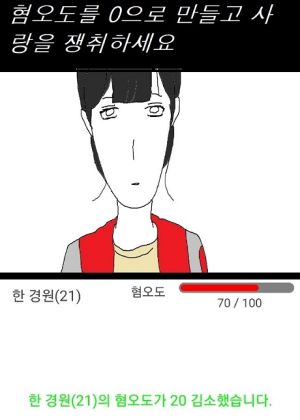
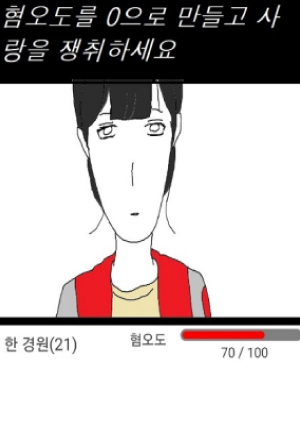
0602

Changed region(s): [[0.0, 0.0, 1.0, 0.8048], [0.09, 0.9286, 0.9, 0.9905], [0.42, 0.3405, 0.45, 0.4333]]

diff --git a/99_test/애플리케이션배포_위재형/app/93_game5.html b/99_test/애플리케이션배포_위재형/app/93_game5.html
@@ -56,8 +56,8 @@
 
 <body>
     <div id="wrap">
-        <img src="images/5.jpg" alt="img">
         <h1>모바일연애시뮬레이션</h1>
+        <img src="images/5.jpg" alt="img">
         <button id="againBtn">나한테 해준게 뭔데!!</button>
         <button id="nextBtn">아 엄마 나가!!</button>
     </div>

diff --git a/99_test/애플리케이션배포_위재형/app/93_game2.html b/99_test/애플리케이션배포_위재형/app/93_game2.html
@@ -56,8 +56,8 @@
 
 <body>
     <div id="wrap">
-        <img src="images/2.jpg" alt="img">
         <h1>모바일연애시뮬레이션</h1>
+        <img src="images/2.jpg" alt="img">
         <button id="againBtn">너 원피스봐?</button>
         <button id="nextBtn">너 던파해?</button>
     </div>

diff --git a/99_test/애플리케이션배포_위재형/app/93_game3.html b/99_test/애플리케이션배포_위재형/app/93_game3.html
@@ -53,8 +53,8 @@
 
 <body>
     <div id="wrap">
-        <img src="images/3.jpg" alt="img">
         <h1>모바일연애시뮬레이션</h1>
+        <img src="images/3.jpg" alt="img">
         <button id="againBtn">잘 지냈어?</button>
         <button id="nextBtn">안녕! 헤헤</button>
     </div>

diff --git a/99_test/애플리케이션배포_위재형/app/93_game4.html b/99_test/애플리케이션배포_위재형/app/93_game4.html
@@ -56,8 +56,8 @@
 
 <body>
     <div id="wrap">
-        <img src="images/4.jpg" alt="img">
         <h1>모바일연애시뮬레이션</h1>
+        <img src="images/4.jpg" alt="img">
         <button id="againBtn">홀</button>
         <button id="nextBtn">짝</button>
     </div>

diff --git a/99_test/애플리케이션배포_위재형/app/93_game1.html b/99_test/애플리케이션배포_위재형/app/93_game1.html
@@ -38,7 +38,7 @@
 
         button {
             width: 100%;
-            margin: 8px 0;
+            margin: 32px 0;
             padding: 8px;
             font-size: 20px;
         }
